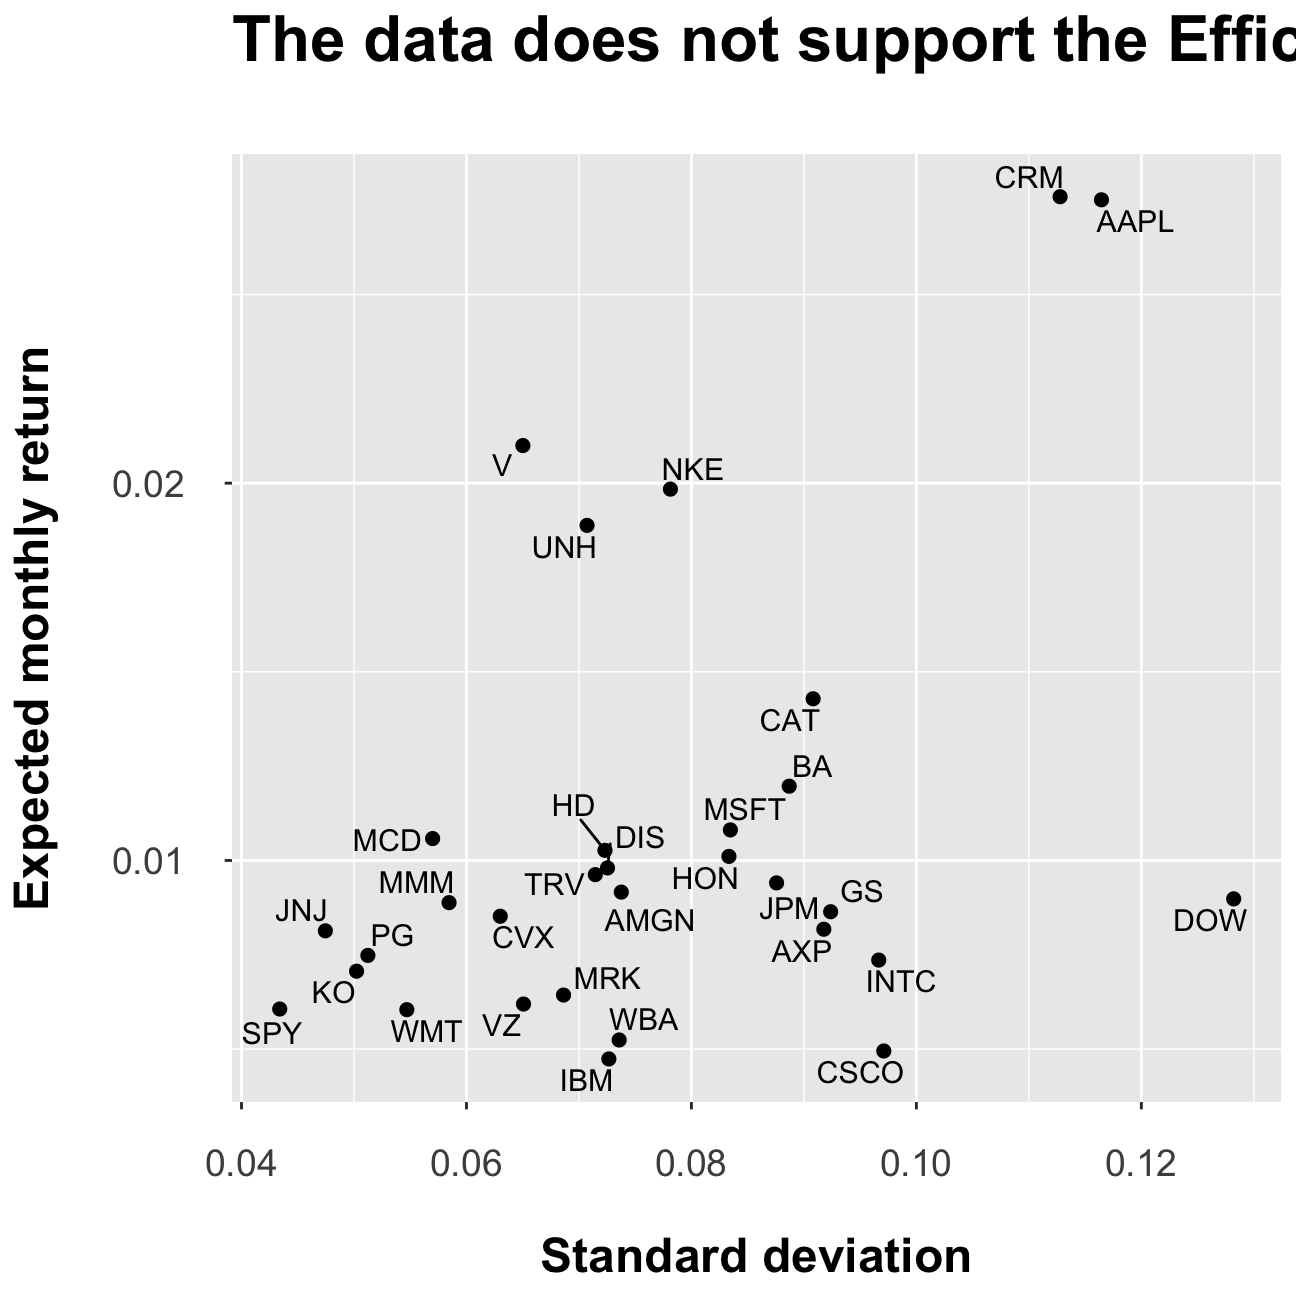
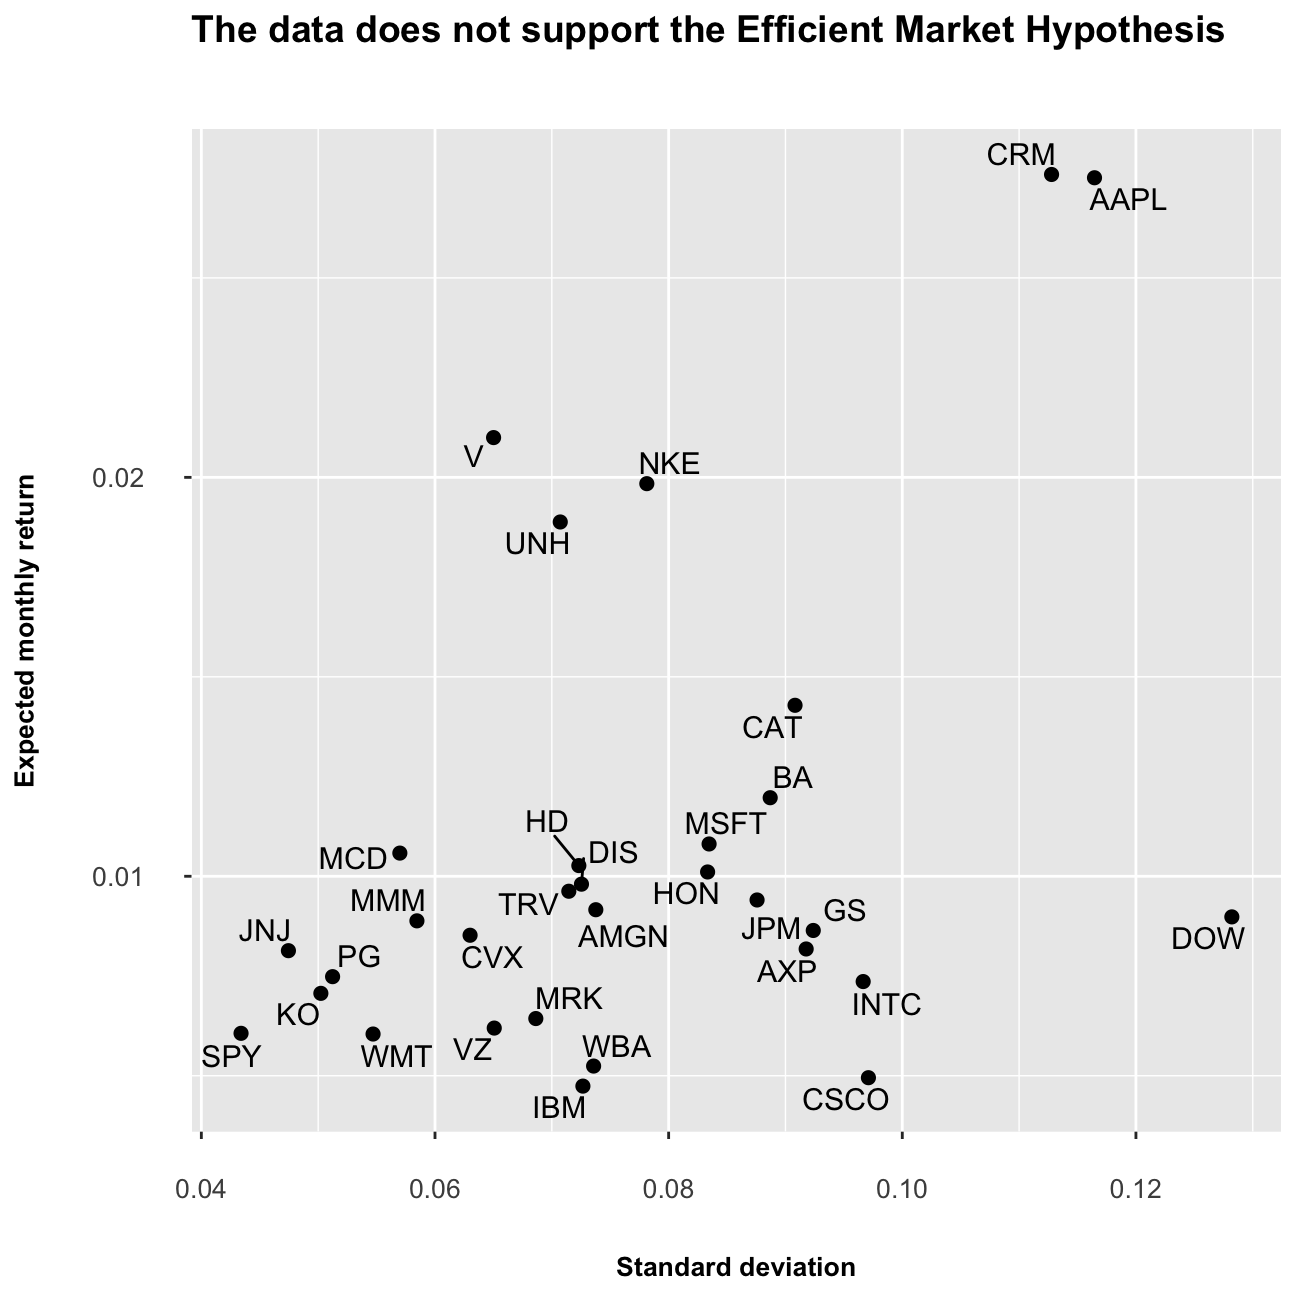
Plot formatting

diff --git a/content/projects/stockreturns.html b/content/projects/stockreturns.html
@@ -23,11 +23,11 @@ sector_stocks &lt;- nyse %&gt;%
   count(sort = TRUE)
 ggplot(sector_stocks, aes(x = reorder(sector, -n), y = n)) + 
   geom_col() +
-  theme(axis.text.x = element_text(size = 14, angle = 60, hjust = 1, margin=margin(15,0,0,0)),
-        axis.text.y = element_text(size = 14, margin = margin(0,15,0,0)),
-        plot.title = element_text(size = 24, face = &quot;bold&quot;, margin = margin(0,0,30,0)), 
+  theme(axis.text.x = element_text(size = 10, angle = 60, hjust = 1, margin=margin(15,0,0,0)),
+        axis.text.y = element_text(size = 10, margin = margin(0,15,0,0)),
+        plot.title = element_text(size = 12, face = &quot;bold&quot;, margin = margin(0,0,20,0)), 
         axis.title.x = element_blank(),
-        axis.title.y = element_text(size=18, face=&quot;bold&quot;, margin=margin(0,20,0,0))) +
+        axis.title.y = element_text(size=10, face=&quot;bold&quot;, margin=margin(0,20,0,0))) +
   labs(x = &quot;NONE&quot;, 
        y = &quot;# of companies&quot;, 
        title = &quot;Most of the companies are operating in the finance industry&quot;)</code></pre>
@@ -147,9 +147,9 @@ print(monthly_summarise)</code></pre>
  ggplot(myStocks_returns_monthly,aes(x = monthly_returns)) + geom_density()+facet_wrap(~symbol) +
   theme(axis.text.x = element_text(size = 8),
         axis.text.y = element_text(size = 8),
-        plot.title = element_text(size = 24, face = &quot;bold&quot;, margin = margin(0,0,30,0)), 
-        axis.title.x = element_text(size=18, face=&quot;bold&quot;, margin=margin(20,0,0,0)),
-        axis.title.y = element_text(size=18, face=&quot;bold&quot;, margin=margin(0,20,0,0))) +
+        plot.title = element_text(size = 14, face = &quot;bold&quot;, margin = margin(0,0,30,0)), 
+        axis.title.x = element_text(size=10, face=&quot;bold&quot;, margin=margin(20,0,0,0)),
+        axis.title.y = element_text(size=10, face=&quot;bold&quot;, margin=margin(0,20,0,0))) +
   labs(x=&quot;Density&quot;, 
        y=&quot;Average monthly return&quot;, 
        title=&quot;Distribution of return&quot;)</code></pre>
@@ -172,11 +172,11 @@ ggplot(monthly_summarise, aes(x = sd_return,
   geom_text_repel(aes(label = symbol), 
                   size = 4) +
   geom_point(size = 2) +
-  theme(axis.text.x = element_text(size = 14, margin=margin(15,0,0,0)),
-        axis.text.y = element_text(size = 14, margin = margin(0,15,0,0)),
-        plot.title = element_text(size = 24, face = &quot;bold&quot;, margin = margin(0,0,30,0)), 
-        axis.title.x = element_text(size = 18, face = &quot;bold&quot;, margin = margin(20,0,0,0)),
-        axis.title.y = element_text(size = 18, face = &quot;bold&quot;, margin = margin(0,20,0,0))) +
+  theme(axis.text.x = element_text(size = 10, margin=margin(15,0,0,0)),
+        axis.text.y = element_text(size = 10, margin = margin(0,15,0,0)),
+        plot.title = element_text(size = 14, face = &quot;bold&quot;, margin = margin(0,0,30,0)), 
+        axis.title.x = element_text(size = 10, face = &quot;bold&quot;, margin = margin(20,0,0,0)),
+        axis.title.y = element_text(size = 10, face = &quot;bold&quot;, margin = margin(0,20,0,0))) +
   labs(x=&quot;Standard deviation&quot;, 
        y=&quot;Expected monthly return&quot;, 
        title=&quot;The data does not support the Efficient Market Hypothesis&quot;)</code></pre>

diff --git a/public/projects/stockreturns/index.html b/public/projects/stockreturns/index.html
@@ -91,11 +91,11 @@ sector_stocks &lt;- nyse %&gt;%
   count(sort = TRUE)
 ggplot(sector_stocks, aes(x = reorder(sector, -n), y = n)) + 
   geom_col() +
-  theme(axis.text.x = element_text(size = 14, angle = 60, hjust = 1, margin=margin(15,0,0,0)),
-        axis.text.y = element_text(size = 14, margin = margin(0,15,0,0)),
-        plot.title = element_text(size = 24, face = &quot;bold&quot;, margin = margin(0,0,30,0)), 
+  theme(axis.text.x = element_text(size = 10, angle = 60, hjust = 1, margin=margin(15,0,0,0)),
+        axis.text.y = element_text(size = 10, margin = margin(0,15,0,0)),
+        plot.title = element_text(size = 12, face = &quot;bold&quot;, margin = margin(0,0,20,0)), 
         axis.title.x = element_blank(),
-        axis.title.y = element_text(size=18, face=&quot;bold&quot;, margin=margin(0,20,0,0))) +
+        axis.title.y = element_text(size=10, face=&quot;bold&quot;, margin=margin(0,20,0,0))) +
   labs(x = &quot;NONE&quot;, 
        y = &quot;# of companies&quot;, 
        title = &quot;Most of the companies are operating in the finance industry&quot;)</code></pre>
@@ -215,9 +215,9 @@ print(monthly_summarise)</code></pre>
  ggplot(myStocks_returns_monthly,aes(x = monthly_returns)) + geom_density()+facet_wrap(~symbol) +
   theme(axis.text.x = element_text(size = 8),
         axis.text.y = element_text(size = 8),
-        plot.title = element_text(size = 24, face = &quot;bold&quot;, margin = margin(0,0,30,0)), 
-        axis.title.x = element_text(size=18, face=&quot;bold&quot;, margin=margin(20,0,0,0)),
-        axis.title.y = element_text(size=18, face=&quot;bold&quot;, margin=margin(0,20,0,0))) +
+        plot.title = element_text(size = 14, face = &quot;bold&quot;, margin = margin(0,0,30,0)), 
+        axis.title.x = element_text(size=10, face=&quot;bold&quot;, margin=margin(20,0,0,0)),
+        axis.title.y = element_text(size=10, face=&quot;bold&quot;, margin=margin(0,20,0,0))) +
   labs(x=&quot;Density&quot;, 
        y=&quot;Average monthly return&quot;, 
        title=&quot;Distribution of return&quot;)</code></pre>
@@ -240,11 +240,11 @@ ggplot(monthly_summarise, aes(x = sd_return,
   geom_text_repel(aes(label = symbol), 
                   size = 4) +
   geom_point(size = 2) +
-  theme(axis.text.x = element_text(size = 14, margin=margin(15,0,0,0)),
-        axis.text.y = element_text(size = 14, margin = margin(0,15,0,0)),
-        plot.title = element_text(size = 24, face = &quot;bold&quot;, margin = margin(0,0,30,0)), 
-        axis.title.x = element_text(size = 18, face = &quot;bold&quot;, margin = margin(20,0,0,0)),
-        axis.title.y = element_text(size = 18, face = &quot;bold&quot;, margin = margin(0,20,0,0))) +
+  theme(axis.text.x = element_text(size = 10, margin=margin(15,0,0,0)),
+        axis.text.y = element_text(size = 10, margin = margin(0,15,0,0)),
+        plot.title = element_text(size = 14, face = &quot;bold&quot;, margin = margin(0,0,30,0)), 
+        axis.title.x = element_text(size = 10, face = &quot;bold&quot;, margin = margin(20,0,0,0)),
+        axis.title.y = element_text(size = 10, face = &quot;bold&quot;, margin = margin(0,20,0,0))) +
   labs(x=&quot;Standard deviation&quot;, 
        y=&quot;Expected monthly return&quot;, 
        title=&quot;The data does not support the Efficient Market Hypothesis&quot;)</code></pre>
